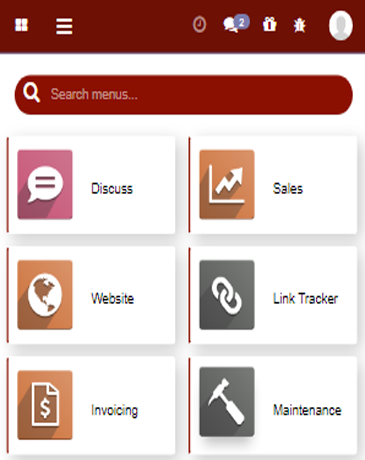
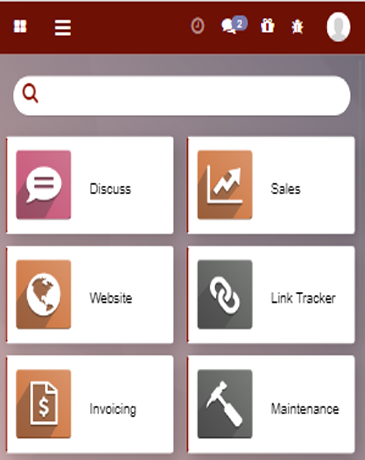
background bg changed and css updated

diff --git a/telenoc_community_theme/static/src/css/style.css b/telenoc_community_theme/static/src/css/style.css
@@ -1,12 +1,15 @@
+/*
 .dropdown-menu
 {
     background-image: none !important;
-    background-color: #fff !important;
+    background-color: #b59a9d !important;
 }
+*/
 
 .o_main_navbar
 {
     background-color: #6e1004;
+    border-bottom: 1px solid #6e1004 !important;
 }
 
 .o_main_navbar > a:hover, .o_main_navbar > a:focus, .o_main_navbar > button:hover, .o_main_navbar > button:focus {
@@ -166,7 +169,19 @@
     box-shadow: inset 0 1px 0 rgb(255 255 255 / 10%), 0 1px 0 rgb(0 0 0 / 10%);
     text-shadow: none;
     border-radius: 25px;
-    background-color: #8b1001 !important;
+    background-color: #fff !important;
+}
+
+.o_menu_apps .dropdown-menu .search-container .search-input .input-group .form-control {
+    color: #000 !important;
+}
+
+.o_menu_apps .dropdown-menu .search-container .search-input .input-group .input-group-prepend span.fa {
+    color: #8b1001 !important;
+}
+
+.o_loading {
+    background-color: #6e1004 !important;
 }
 
 @media (min-width: 769px)

diff --git a/telenoc_community_theme/static/src/css/web_responsive.scss b/telenoc_community_theme/static/src/css/web_responsive.scss
@@ -163,7 +163,7 @@ $chatter_zone_width: 35%;
         opacity: 0;
         visibility: hidden;
         transition: visibility 100ms ease, opacity 100ms ease;
-        background: url("../img/background.png");
+        background: url("../img/background.svg"), linear-gradient(to left bottom, #77717e, #c9a8a9);
         background-size: cover;
         border-radius: 0;
         // Display apps in a grid
